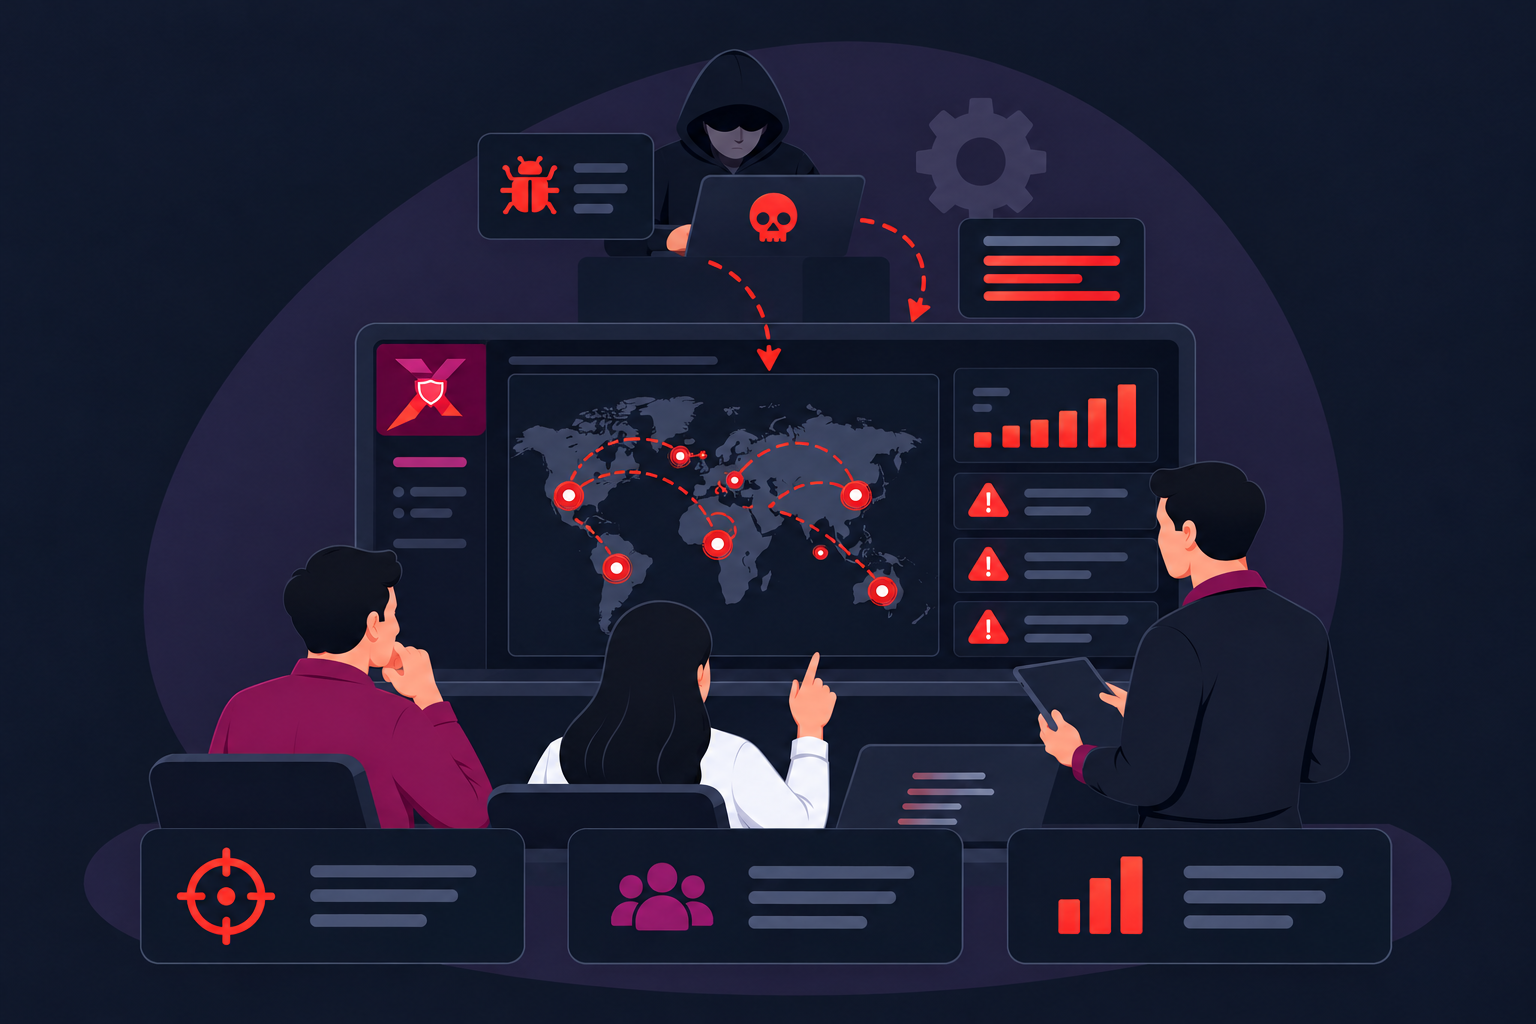
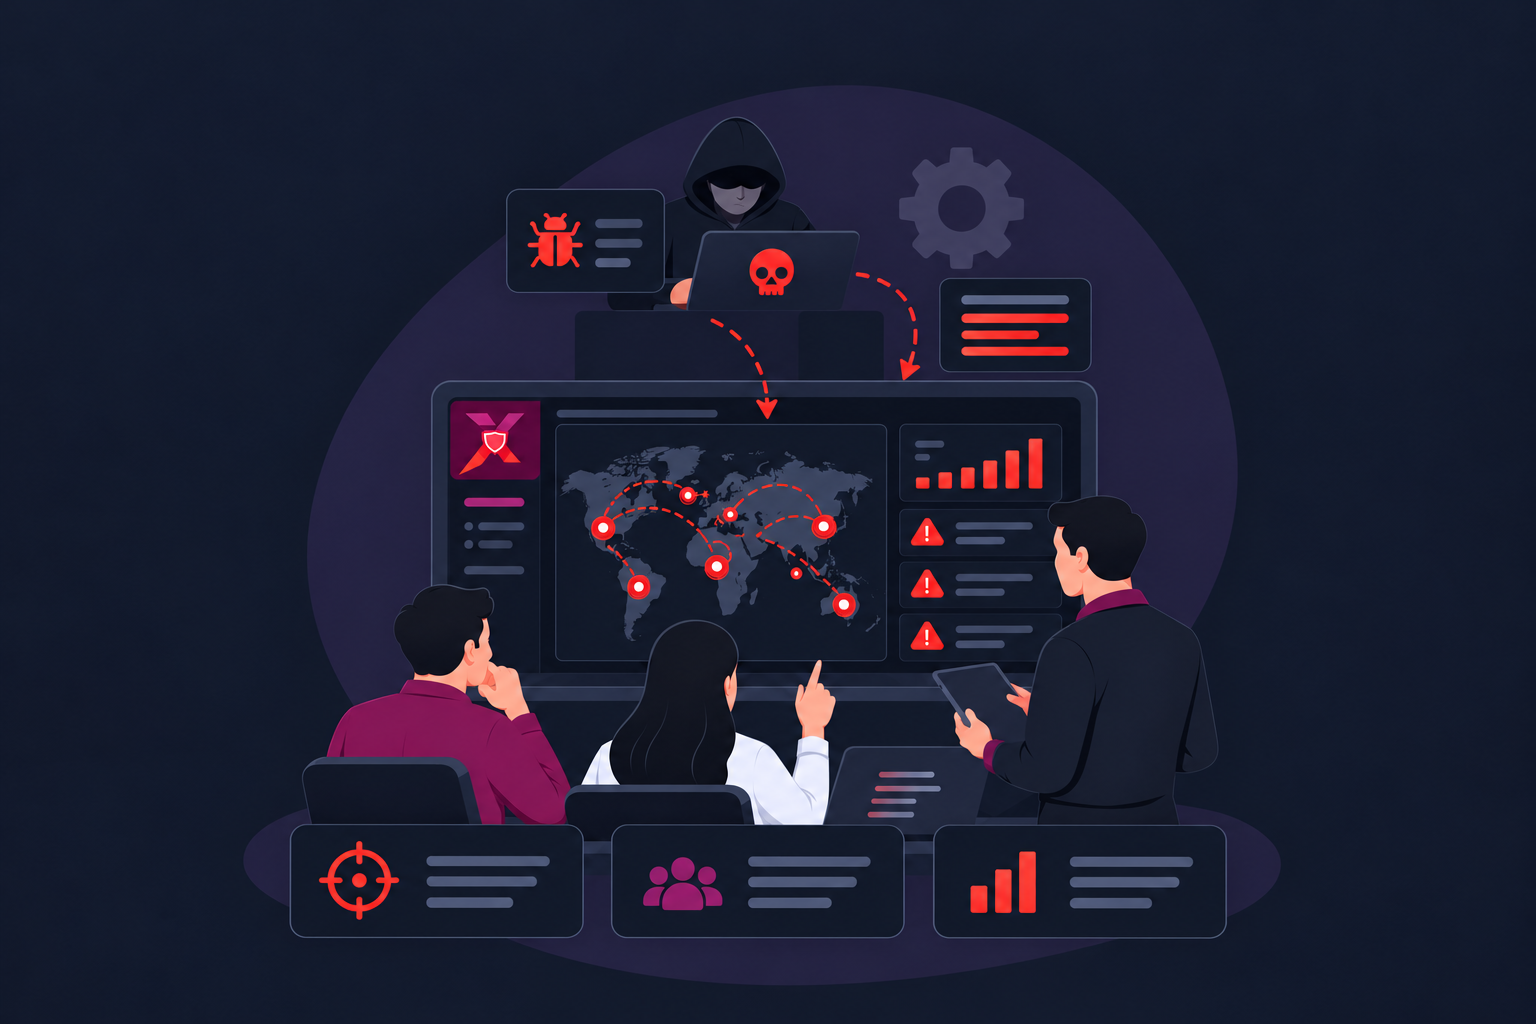
style: refine Cyber Drill service visuals and layout

diff --git a/src/app/globals.css b/src/app/globals.css
@@ -341,6 +341,37 @@ html:not(.dark) .brand-logo {
   background: linear-gradient(90deg, #f7f9fc 0%, rgba(247, 249, 252, 0.94) 32%, rgba(247, 249, 252, 0.45) 62%, rgba(247, 249, 252, 0.12) 100%);
 }
 
+.service-resilience-cards .service-hero {
+  --service-hero-height: clamp(35rem, 44vw, 42.5rem);
+  min-height: var(--service-hero-height);
+}
+
+.service-resilience-cards .service-hero > .page-grid {
+  min-height: inherit;
+}
+
+.service-resilience-cards .service-hero-artwork img {
+  object-fit: contain;
+  object-position: right center;
+  mask-image: linear-gradient(90deg, transparent 30%, black 60%), linear-gradient(180deg, transparent, black 8%, black 90%, transparent);
+  mask-composite: intersect;
+}
+
+.dark .service-resilience-cards .service-hero-artwork img {
+  /* Match the light asset's smaller illustration within the same 1536x1024 canvas. */
+  transform: scale(0.94);
+  transform-origin: calc(100% - min(50vw, calc(var(--service-hero-height) * 0.75))) center;
+  mask-image: linear-gradient(90deg, transparent 30%, black 60%, black 88%, transparent), linear-gradient(180deg, transparent, black 8%, black 90%, transparent);
+}
+
+.service-resilience-cards .service-hero .hero-vignette {
+  opacity: 0.85;
+}
+
+.service-resilience-cards .service-hero-fade {
+  opacity: 0.7;
+}
+
 .dot-field {
   background-image: radial-gradient(rgba(251, 49, 92, 0.28) 1px, transparent 1px);
   background-size: 17px 17px;
@@ -1133,26 +1164,26 @@ html:not(.dark) .hero-ambient {
   }
 
   .service-flow-compact-mobile .service-flow-card {
-    display: grid;
-    grid-template-columns: 2.25rem 3.75rem minmax(0, 1fr);
+    display: flex;
+    flex-direction: column;
     align-items: center;
     min-height: 0;
     width: 100%;
     max-width: 26.25rem;
     gap: 1rem;
     padding: 1rem 1.25rem;
-    text-align: left;
+    text-align: center;
   }
 
   .service-flow-compact-mobile .service-flow-number {
     display: block;
     width: 2.25rem;
-    text-align: left;
+    text-align: center;
   }
 
   .service-flow-compact-mobile .service-flow-icon {
-    width: 3.75rem;
-    height: 3.75rem;
+    width: 5rem;
+    height: 5rem;
     max-width: none;
     margin: 0;
     flex: none;
@@ -1163,8 +1194,7 @@ html:not(.dark) .hero-ambient {
     min-width: 0;
     font-size: 0.875rem;
     line-height: 1.25rem;
-    text-align: left;
-    white-space: nowrap;
+    text-align: center;
   }
 
   .approach-feature-card {

diff --git a/src/components/service-page.tsx b/src/components/service-page.tsx
@@ -165,7 +165,7 @@ export function ServicePage({ content, cardVariant }: ServicePageProps) {
   return (
     <main className={`site-shell min-h-screen bg-background text-foreground ${hasResilienceCards ? "service-resilience-cards" : ""}`}>
       <SiteHeader />
-      <section className="relative min-h-[560px] overflow-hidden border-b border-slate-200/80 dark:border-white/5">
+      <section className="service-hero relative min-h-[560px] overflow-hidden border-b border-slate-200/80 dark:border-white/5">
         <div className="service-hero-artwork absolute inset-0">
           {props.imageLight && (
             <Image src={publicAsset(props.imageLight)} alt={props.imageAlt} fill priority sizes="100vw" className="object-contain object-top opacity-90 dark:hidden lg:object-right" />
@@ -174,7 +174,7 @@ export function ServicePage({ content, cardVariant }: ServicePageProps) {
         </div>
         <div className="hero-vignette absolute inset-0" />
         <div className="hero-ambient" />
-        <div className="absolute inset-0 bg-gradient-to-t from-background via-transparent to-transparent opacity-95" />
+        <div className="service-hero-fade absolute inset-0 bg-gradient-to-t from-background via-transparent to-transparent opacity-95" />
         <div className="page-grid relative z-10 flex min-h-[560px] items-center py-16 sm:min-h-[590px] sm:py-20">
           <Reveal className="min-w-0 max-w-2xl">
             <p className="mb-5 text-sm font-bold uppercase tracking-[0.2em] text-rose-500 dark:text-rose-400">{props.eyebrow}</p>
